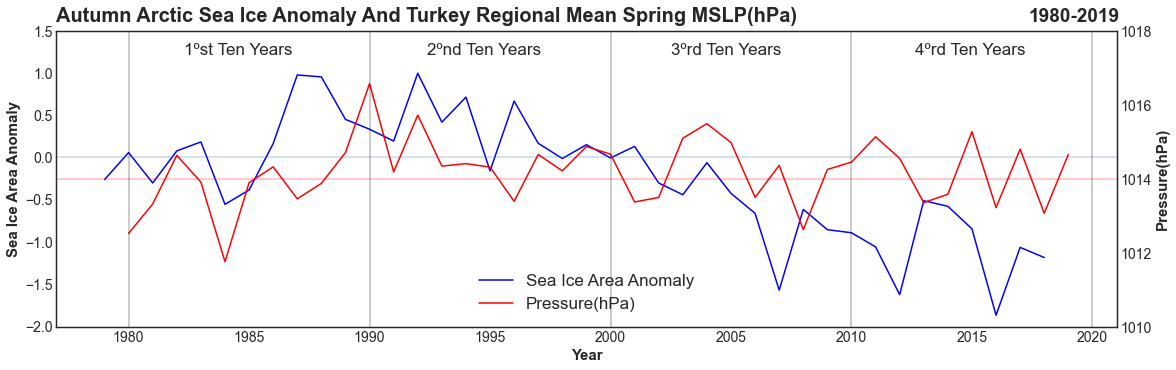
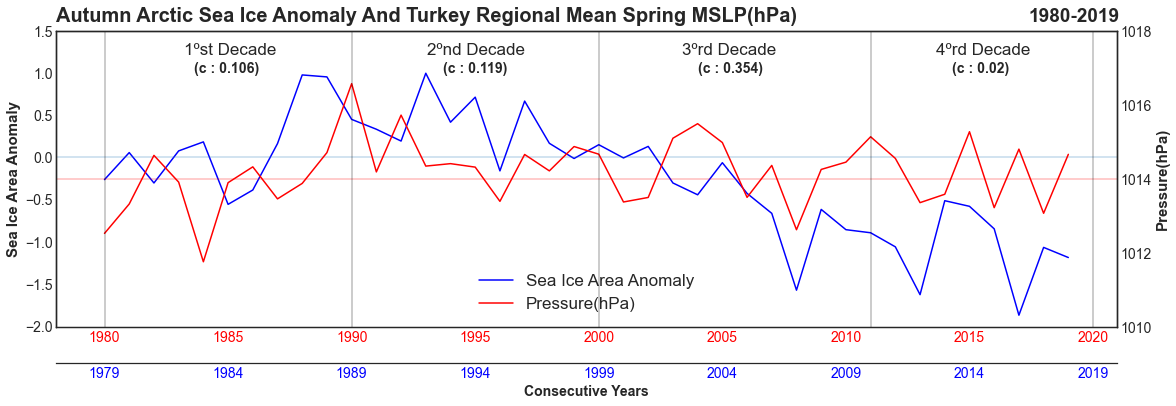
Edited scripts and new figures with PRECIPWATER

diff --git a/ArTuC/Timeseries_Core/Arctic_Timeseries_Plot.py b/ArTuC/Timeseries_Core/Arctic_Timeseries_Plot.py
@@ -1,4 +1,3 @@
-import matplotlib.pyplot as plt
 import numpy as np
 import scipy
 import cartopy
@@ -10,13 +9,13 @@ import netCDF4
 import pandas as pd
 
 #To find autumnal arctic anomaly we import ARCTIC_ANOMALY_CALC.py which contains function that calculates autumnal arctic anomaly
-import .ARCTIC_ANOMALY_CALC
+import ARCTIC_ANOMALY_CALC
 
 anomalyseaice = ARCTIC_ANOMALY_CALC.arctic_autumnal_anomaly()
 
 def plot_winter_timeseries_ARCTIC(var):
     """ Return timeseries plot that includes Autumnal Arctic Sea Ice Anomalies and
-        desired variable values between the years 1979-2019
+        desired variable values for winter between the years 1979-2019
         var : Desired variable to plot with Autumnal Arctic Sea Ice Anomaly (Given as str)
               (MSLP, 1000MBTEMP, SNWCOV, PRECIPWATER)
     """
@@ -38,19 +37,19 @@ def plot_winter_timeseries_ARCTIC(var):
         plot_lim_sep = 1
         plot_title_ext = 'Temperature(ºC)'
         plot_title = '1000 mb Temperature(ºC)'
-    #####elif var == 'SNOWCOV':
-     #####   data_winter = xr.open_dataset(r'C:\Users\Lenovo\ML\Elcinhoca_proje\dataset_adjusted\CFSR_1979_2019_SNOWCOV_winter.nc')  
-     #####   data_winter = data_winter['SNOWC_L1_FcstAvg6hr']
-     #####   plot_lim_A = 0
-     #####   plot_lim_B = 35
-     #####   plot_lim_sep = 5
-     #####   plot_title_ext = 'Snow Cover (%)'
-     #####   plot_title = 'Snow Cover (%)'
+    elif var == 'PRECIPWATER':
+        data_winter = xr.open_dataset(r'C:\Users\Lenovo\ML\Elcinhoca_proje\dataset_adjusted\CFSR_1979_2019_PRECIPWATER_winter.nc')  
+        data_winter = data_winter['P_WAT_L200_Avg']
+        plot_lim_A = 7
+        plot_lim_B = 14
+        plot_lim_sep = 1
+        plot_title_ext = 'Precipitable Water(kg/m2)'
+        plot_title = 'Precipitable Water(kg/m2)'
     #_____________________________________________________#
     #                     PROCESS1                        #
     #_____________________________________________________#
     #Set winter months dec,jan,feb seperately for 30 years in a list
-    #1980[mart,nisan,mayıs], 1981[mart,nisan,mayıs]  NOTE:slice() funsction used be careful!
+    #1980[dec, jan, feb], 1981[dec, jan, feb]  NOTE:slice() funsction used be careful!
     data_winter_yearly_months = [] 
     time_iter = 0
     for i in range(41):
@@ -80,27 +79,36 @@ def plot_winter_timeseries_ARCTIC(var):
         wintertimeseries_data_40years_turkey_mean_array = np.array(wintertimeseries_data_40years_turkey_mean.values)/100
     elif var == '1000MBTEMP':
         wintertimeseries_data_40years_turkey_mean_array = np.array(wintertimeseries_data_40years_turkey_mean.values)-273.15
-    #####elif var == 'SNOWCOV':
-        #####wintertimeseries_data_40years_turkey_mean_array = np.array(wintertimeseries_data_40years_turkey_mean.values)
+    elif var == 'PRECIPWATER':
+        wintertimeseries_data_40years_turkey_mean_array = np.array(wintertimeseries_data_40years_turkey_mean.values)
     
     mean_for_plot_line = np.mean(wintertimeseries_data_40years_turkey_mean_array) 
     
-    #_____________________________________________________#
-    #                     PROCESS4                        #
-    #_____________________________________________________#
+    first_corr = np.corrcoef(anomalyseaice[0:10], wintertimeseries_data_40years_turkey_mean_array[0:10])
+    first_corr = np.round(first_corr[0,1], 3)
     
+    second_corr = np.corrcoef(anomalyseaice[10:20], wintertimeseries_data_40years_turkey_mean_array[10:20])
+    second_corr = np.round(second_corr[0,1], 3)
+    
+    third_corr = np.corrcoef(anomalyseaice[20:31], wintertimeseries_data_40years_turkey_mean_array[20:31])
+    third_corr = np.round(third_corr[0,1], 3)
+    
+    fourth_corr = np.corrcoef(anomalyseaice[31:40], wintertimeseries_data_40years_turkey_mean_array[31:40])
+    fourth_corr = np.round(fourth_corr[0,1], 3)
+    
+    corr_full = np.corrcoef(anomalyseaice[:], wintertimeseries_data_40years_turkey_mean_array[:])
+
     plt.style.use('seaborn-white')
     plt.rcParams['figure.figsize'] = 19, 12
     fig = plt.figure()
     ax1 = fig.add_subplot(2,1,1)
     yearsall = np.arange(1979,2019)
     yearsall1 = np.arange(1980,2020)
-    mesh1,=ax1.plot(yearsall,anomalyseaice[:],color='blue')
+    mesh1,=ax1.plot(yearsall1,anomalyseaice[:],color='blue')
     #mesh2,=ua_10_2006_2099['ua'].plot.line(ax=ax1,color='red')
 
 
     plt.ylabel('Sea Ice Area Anomaly', fontsize=15,weight='bold')
-    plt.xlabel('Year', fontsize=15,weight='bold')
     ax1.tick_params(axis='y', labelsize=14)
     ax1.tick_params(axis='x', labelsize=14)
     plt.yticks(np.arange(-2,1.6,0.5))
@@ -119,19 +127,221 @@ def plot_winter_timeseries_ARCTIC(var):
     plt.axvline(x = 1980, linewidth=0.4,color='k')
     plt.axvline(x = 1990, linewidth=0.4,color='k')
     plt.axvline(x = 2000, linewidth=0.4,color='k')
-    plt.axvline(x = 2010, linewidth=0.4,color='k')
+    plt.axvline(x = 2011, linewidth=0.4,color='k')
     plt.axvline(x = 2020, linewidth=0.4,color='k')
 
     ax2.tick_params(axis='y', labelsize=14)
+    
+    ####################
+    
+    # Set second x-axis
+    ax3 = ax2.twiny()
+    newlabel = [1974, 1979, 1984, 1989, 1994, 1999, 2004, 2009, 2014, 2019] # labels of the xticklabels: 
+    ax3.set_xticklabels(newlabel)
+    ax3.xaxis.set_ticks_position('bottom') # set the position of the second x-axis to bottom
+    ax3.xaxis.set_label_position('bottom') # set the position of the second x-axis to bottom
+    ax3.spines['bottom'].set_position(('outward', 36))
+    ax3.set_xlabel('Consecutive Years', fontsize=14, fontweight='bold')
+    ax3.set_xlim(ax2.get_xlim())
+    ax3.tick_params(axis='x', labelsize=14, color='red')
+    #ax3.spines["bottom"].set_color("blue")
+    #ax1.spines["bottom"].set_color("red")
+    #ax2.spines["bottom"].set_color("red")
+    ax1.tick_params(axis='x', colors='red')
+    ax2.tick_params(axis='x', colors='red')
+    ax3.tick_params(axis='x', colors='blue')
+    
+    ####################
 
     plt.legend([mesh1,  mesh2], ["Sea Ice Area Anomaly", "{}".format(plot_title_ext)],prop={'size': 17}, loc='lower center')
 
-    title4 = ax1.text(0.12, 0.92,'1ºst Ten Years', transform=ax1.transAxes,fontsize=17)
-    title4 = ax1.text(0.35, 0.92,'2ºnd Ten Years', transform=ax1.transAxes,fontsize=17)
-    title4 = ax1.text(0.58, 0.92,'3ºrd Ten Years', transform=ax1.transAxes,fontsize=17)
-    title4 = ax1.text(0.81, 0.92,'4ºrd Ten Years', transform=ax1.transAxes,fontsize=17)
+    title4 = ax1.text(0.12, 0.92,'1ºst Decade', transform=ax1.transAxes,fontsize=17)
+    title4 = ax1.text(0.13, 0.86, '(c : {})'.format(first_corr), transform=ax1.transAxes,fontsize=14, fontweight='bold')
+    
+    title4 = ax1.text(0.35, 0.92,'2ºnd Decade', transform=ax1.transAxes,fontsize=17)
+    title4 = ax1.text(0.365, 0.86,'(c : {})'.format(second_corr), transform=ax1.transAxes,fontsize=14, fontweight='bold')    
+    
+    title4 = ax1.text(0.59, 0.92,'3ºrd Decade', transform=ax1.transAxes,fontsize=17)
+    title4 = ax1.text(0.605, 0.86,'(c : {})'.format(third_corr), transform=ax1.transAxes,fontsize=14, fontweight='bold') 
+    
+    title4 = ax1.text(0.83, 0.92,'4ºrd Decade', transform=ax1.transAxes,fontsize=17)
+    title4 = ax1.text(0.85, 0.86,'(c : {})'.format(fourth_corr), transform=ax1.transAxes,fontsize=14, fontweight='bold') 
 
     title1 = ax1.text(0,1.03,'Autumn Arctic Sea Ice Anomaly And Turkey Regional Mean Winter {}'.format(plot_title),weight='bold',transform=ax1.transAxes,fontsize=20)
 
     title3 = ax1.text(0.917,1.03,'1980-2019',weight='bold',transform=ax1.transAxes,fontsize=19)
     plt.savefig(r'C:\Users\Lenovo\ML\Elcinhoca_proje\DATASET_WORKS\pictures\Sea_Ice_{}_Winter_Time_Series.png'.format(var) , bbox_inches='tight')
+    
+
+def plot_spring_timeseries_ARCTIC(var):
+    """ Return timeseries plot that includes Autumnal Arctic Sea Ice Anomalies and
+        desired variable values for spring between the years 1979-2019
+        var : Desired variable to plot with Autumnal Arctic Sea Ice Anomaly (Given as str)
+              (MSLP, 1000MBTEMP, SNWCOV, PRECIPWATER)
+    """
+    import matplotlib.pyplot as plt
+    import numpy as np
+    if var == 'MSLP':
+        data_spring = xr.open_dataset(r'C:\Users\Lenovo\ML\Elcinhoca_proje\dataset_adjusted\CFSR_1979_2019_MSLP_spring.nc')
+        data_spring = data_spring['PRMSL_L101_Avg'][3:,:,:] # Starts from 1980 march
+        plot_lim_A = 1010
+        plot_lim_B = 1020
+        plot_lim_sep = 2
+        plot_title_ext = 'Pressure(hPa)'
+        plot_title = 'MSLP(hPa)'
+    elif var == '1000MBTEMP':
+        data_spring = xr.open_dataset(r'C:\Users\Lenovo\ML\Elcinhoca_proje\dataset_adjusted\CFSR_1979_2019_1000MBTEMP_spring.nc')  
+        data_spring = data_spring['TMP_L100_Avg'][3:,:,:] # Starts from 1980 march
+        plot_lim_A = 12
+        plot_lim_B = 20
+        plot_lim_sep = 1
+        plot_title_ext = 'Temperature(ºC)'
+        plot_title = '1000 mb Temperature(ºC)'
+        
+    elif var == 'PRECIPWATER':
+        data_spring = xr.open_dataset(r'C:\Users\Lenovo\ML\Elcinhoca_proje\dataset_adjusted\CFSR_1979_2019_PRECIPWATER_spring.nc')  
+        data_spring = data_spring['P_WAT_L200_Avg']
+        plot_lim_A = 7
+        plot_lim_B = 14
+        plot_lim_sep = 1
+        plot_title_ext = 'Precipitable Water(kg/m2)'
+        plot_title = 'Precipitable Water(kg/m2)'
+        
+    #####elif var == 'SNOWCOV':
+     #####   data_spring = xr.open_dataset(r'C:\Users\Lenovo\ML\Elcinhoca_proje\dataset_adjusted\CFSR_1979_2019_SNOWCOV_spring.nc')  
+     #####   data_spring = data_spring['SNOWC_L1_FcstAvg6hr']
+     #####   plot_lim_A = 0
+     #####   plot_lim_B = 35
+     #####   plot_lim_sep = 5
+     #####   plot_title_ext = 'Snow Cover (%)'
+     #####   plot_title = 'Snow Cover (%)'
+    
+    #_____________________________________________________#
+    #                     PROCESS1                        #
+    #_____________________________________________________#
+    #Set winter months march,april,may seperately for 30 years in a list
+    #1980[mart,nisan,mayıs], 1981[mart,nisan,mayıs]  NOTE:slice() funsction used be careful!
+    data_spring_yearly_months = [] 
+    time_iter = 0
+    for i in range(41):
+
+        dt = data_spring.isel(time = slice(time_iter,time_iter+3))
+        time_iter+=3
+        data_spring_yearly_months.append(dt)
+    
+    #_____________________________________________________#
+    #                     PROCESS2                        #
+    #_____________________________________________________#
+    #Average value of each seperate year is calculated(i.e. ave(1979[mar,apr,may]), ave(1980[mar,apr,may]) ... )
+    #It results in spring values for each year in each latitude and longitude
+    data_spring_yearly = []
+    for i in range(41):
+        a = data_spring_yearly_months[i].mean(dim='time')
+        data_spring_yearly.append(a)
+        
+    #_____________________________________________________#
+    #                     PROCESS3                        #
+    #_____________________________________________________#
+    #Concat 40 seperate dataset with respect to time
+    #From 1980 spring to 2019 spring
+    springtimeseries_data_40years = xr.concat(data_spring_yearly[:-1],dim='time')
+    springtimeseries_data_40years_turkey_mean = springtimeseries_data_40years.sel(lat=slice(42,36),lon=slice(26,45)).mean(dim=['lat','lon'])
+    if var == 'MSLP':
+        springtimeseries_data_40years_turkey_mean_array = np.array(springtimeseries_data_40years_turkey_mean.values)/100
+    elif var == '1000MBTEMP':
+        springtimeseries_data_40years_turkey_mean_array = np.array(springtimeseries_data_40years_turkey_mean.values)-273.15
+    elif var == 'PRECIPWATER':
+        springtimeseries_data_40years_turkey_mean_array = np.array(springtimeseries_data_40years_turkey_mean.values)
+    
+    mean_for_plot_line = np.mean(springtimeseries_data_40years_turkey_mean_array) 
+    
+    first_corr = np.corrcoef(anomalyseaice[0:10], springtimeseries_data_40years_turkey_mean_array[0:10])
+    first_corr = np.round(first_corr[0,1], 3)
+    
+    second_corr = np.corrcoef(anomalyseaice[10:20], springtimeseries_data_40years_turkey_mean_array[10:20])
+    second_corr = np.round(second_corr[0,1], 3)
+    
+    third_corr = np.corrcoef(anomalyseaice[20:31], springtimeseries_data_40years_turkey_mean_array[20:31])
+    third_corr = np.round(third_corr[0,1], 3)
+    
+    fourth_corr = np.corrcoef(anomalyseaice[31:40], springtimeseries_data_40years_turkey_mean_array[31:40])
+    fourth_corr = np.round(fourth_corr[0,1], 3)
+    
+    corr_full = np.corrcoef(anomalyseaice[:], springtimeseries_data_40years_turkey_mean_array[:])
+    
+    
+    plt.style.use('seaborn-white')
+    plt.rcParams['figure.figsize'] = 19, 12
+    fig = plt.figure()
+    ax1 = fig.add_subplot(2,1,1)
+    yearsall = np.arange(1979,2019)
+    yearsall1 = np.arange(1980,2020)
+    mesh1,=ax1.plot(yearsall1,anomalyseaice[:],color='blue')
+    #mesh2,=ua_10_2006_2099['ua'].plot.line(ax=ax1,color='red')
+
+
+    plt.ylabel('Sea Ice Area Anomaly', fontsize=15,weight='bold')
+    ax1.tick_params(axis='y', labelsize=14)
+    ax1.tick_params(axis='x', labelsize=14)
+    plt.yticks(np.arange(-2,1.6,0.5))
+    plt.xticks(rotation=0)
+    plt.axhline(y=0, linewidth=0.4)
+
+
+
+    ax2 = ax1.twinx()
+    mesh2,=ax2.plot(yearsall1,springtimeseries_data_40years_turkey_mean_array,color='red')
+
+    plt.ylabel('{}'.format(plot_title_ext), fontsize=15,weight='bold')
+    plt.yticks(np.arange(plot_lim_A,plot_lim_B,plot_lim_sep))                          
+    plt.axhline(y=int(mean_for_plot_line), linewidth=0.4,color='red')
+
+    plt.axvline(x = 1980, linewidth=0.4,color='k')
+    plt.axvline(x = 1990, linewidth=0.4,color='k')
+    plt.axvline(x = 2000, linewidth=0.4,color='k')
+    plt.axvline(x = 2011, linewidth=0.4,color='k')
+    plt.axvline(x = 2020, linewidth=0.4,color='k')
+
+    ax2.tick_params(axis='y', labelsize=14)
+    
+    ####################
+    
+    # Set second x-axis
+    ax3 = ax2.twiny()
+    newlabel = [1974, 1979, 1984, 1989, 1994, 1999, 2004, 2009, 2014, 2019] # labels of the xticklabels: 
+    ax3.set_xticklabels(newlabel)
+    ax3.xaxis.set_ticks_position('bottom') # set the position of the second x-axis to bottom
+    ax3.xaxis.set_label_position('bottom') # set the position of the second x-axis to bottom
+    ax3.spines['bottom'].set_position(('outward', 36))
+    ax3.set_xlabel('Consecutive Years', fontsize=14, fontweight='bold')
+    ax3.set_xlim(ax2.get_xlim())
+    ax3.tick_params(axis='x', labelsize=14, color='red')
+    #ax3.spines["bottom"].set_color("blue")
+    #ax1.spines["bottom"].set_color("red")
+    #ax2.spines["bottom"].set_color("red")
+    ax1.tick_params(axis='x', colors='red')
+    ax2.tick_params(axis='x', colors='red')
+    ax3.tick_params(axis='x', colors='blue')
+    
+    ####################
+
+    plt.legend([mesh1,  mesh2], ["Sea Ice Area Anomaly", "{}".format(plot_title_ext)],prop={'size': 17}, loc='lower center')
+
+    title4 = ax1.text(0.12, 0.92,'1ºst Decade', transform=ax1.transAxes,fontsize=17)
+    title4 = ax1.text(0.13, 0.86, '(c : {})'.format(first_corr), transform=ax1.transAxes,fontsize=14, fontweight='bold')
+    
+    title4 = ax1.text(0.35, 0.92,'2ºnd Decade', transform=ax1.transAxes,fontsize=17)
+    title4 = ax1.text(0.365, 0.86,'(c : {})'.format(second_corr), transform=ax1.transAxes,fontsize=14, fontweight='bold')    
+    
+    title4 = ax1.text(0.59, 0.92,'3ºrd Decade', transform=ax1.transAxes,fontsize=17)
+    title4 = ax1.text(0.605, 0.86,'(c : {})'.format(third_corr), transform=ax1.transAxes,fontsize=14, fontweight='bold') 
+    
+    title4 = ax1.text(0.83, 0.92,'4ºrd Decade', transform=ax1.transAxes,fontsize=17)
+    title4 = ax1.text(0.845, 0.86,'(c : {})'.format(fourth_corr), transform=ax1.transAxes,fontsize=14, fontweight='bold') 
+
+    
+    title1 = ax1.text(0,1.03,'Autumn Arctic Sea Ice Anomaly And Turkey Regional Mean Spring {}'.format(plot_title),weight='bold',transform=ax1.transAxes,fontsize=20)
+
+    title3 = ax1.text(0.917,1.03,'1980-2019',weight='bold',transform=ax1.transAxes,fontsize=19)
+    plt.savefig(r'C:\Users\Lenovo\ML\Elcinhoca_proje\DATASET_WORKS\pictures\Sea_Ice_{}_Spring_Time_Series.png'.format(var) , bbox_inches='tight')
+    

diff --git a/ArTuC/Timeseries_Core/CONCAT_30_with_10.py b/ArTuC/Timeseries_Core/CONCAT_30_with_10.py
@@ -31,3 +31,10 @@ def concat_springs(data1 , data2, var):
     data_spring_10 = xr.open_dataset(r'C:\Users\Lenovo\ML\Elcinhoca_proje\dataset_adjusted\{}.nc'.format(data2))
     concatted_data = xr.concat([data_spring_30,data_spring_10], dim='time')
     concatted.to_netcdf(r'C:\Users\Lenovo\ML\Elcinhoca_proje\dataset_adjusted\CFSR_1979_2019_{}_spring.nc'.format(var))
+    
+concat_winters(data1 = 'CFSR_MSL_Pressure_NORTH', data2 =  '2011_2020_CFSR_MSLP_WINTER_MSLP', var='MSLP' )
+concat_winters(data1 = 'CFSR_1000MB_TEMP_NORTH_WINTER', data2 =  '2011_2020_CFSR_1000MBTEMP_WINTER', var='1000MBTEMP')
+concat_springs(data1 = 'CFSR_MSL_Pressure_NORTH_SPRING', data2 =  '2011_2020_CFSR_MSLP_SPRING_MSLP', var='MSLP')
+concat_springs(data1 = 'CFSR_1000MB_TEMP_NORTH_SPRING', data2 =  '2011_2020_CFSR_1000MBTEMP_SPRING', var='1000MBTEMP')
+concat_winters(data1 = 'CFSR_PRECIPWATER_NORTH_WINTER', data2 =  '2011_2020_CFSR_PRECIPWATER_WINTER', var='PRECIPWATER')
+concat_springs(data1 = 'CFSR_PRECIPWATER_NORTH_SPRING', data2 =  '2011_2020_CFSR_PRECIPWATER_SPRING', var='PRECIPWATER')

diff --git a/ArTuC/Timeseries_Core/PLOT_TIMESERIES_ArTuC.py b/ArTuC/Timeseries_Core/PLOT_TIMESERIES_ArTuC.py
@@ -8,3 +8,5 @@ MSLP_winterplotter = Arctic_Timeseries_Plot.plot_winter_timeseries_ARCTIC('MSLP'
 MSLP_springplotter = Arctic_Timeseries_Plot.plot_spring_timeseries_ARCTIC('MSLP')
 TEMP1000MB_winterplotter = Arctic_Timeseries_Plot.plot_winter_timeseries_ARCTIC('1000MBTEMP')
 TEMP1000MB_springplotter = Arctic_Timeseries_Plot.plot_spring_timeseries_ARCTIC('1000MBTEMP')
+PRECIPWATER_winterplotter = Arctic_Timeseries_Plot.plot_winter_timeseries_ARCTIC('PRECIPWATER')
+PRECIPWATER_springplotter = Arctic_Timeseries_Plot.plot_spring_timeseries_ARCTIC('PRECIPWATER')
